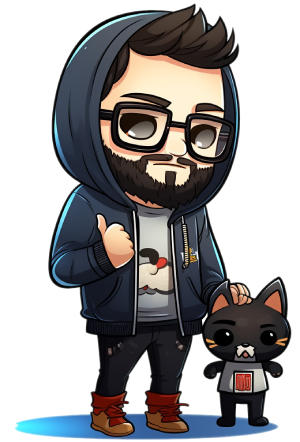
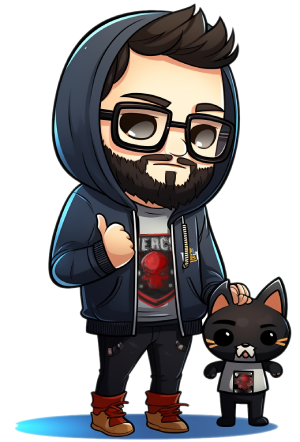
Added more machine specs, added merc tshirt.

Changed region(s): [[0.45, 0.5294, 0.6, 0.7059], [0.78, 0.8235, 0.84, 0.9118]]

diff --git a/README.md b/README.md
@@ -66,12 +66,13 @@
 
 <img src="assets/monk.png" align="right">
 
-**Gear:** &nbsp;
-<img alt="cpu badge" src="https://img.shields.io/badge/-AMD%20Ryzen%207%205800X%20@5.0GHz-ed1c24?style=flat-square&logo=AMD&logoColor=white">
-<img alt="gpu badge" src="https://img.shields.io/badge/-AMD%20Radeon%20RX%206800XT%2016GB-ed1c24?style=flat-square&logo=AMD&logoColor=white">
-<img alt="ram badge" src="https://img.shields.io/badge/-32GB%20DDR4%20@3200MHz-ed1c24?style=flat-square&logo=AMD&logoColor=white">
+**Desktop:** &nbsp; <img alt="desktop badge" src="https://img.shields.io/badge/-Ryzen%207%205800X%20@5.0GHz%20|%20Radeon%20RX%206800XT%2016GB%20|%2032GB%20DDR4%20@3200MHz-ed1c24?style=flat-square&logo=AMD&logoColor=white"> <img alt="prox badge" src="https://img.shields.io/badge/-OS: Windows-0078d4?style=flat-square&logo=Windows%2011&logoColor=white">
 
-**Tech I love:** &nbsp;
+**Laptop:** &nbsp; <img alt="laptop badge" src="https://img.shields.io/badge/-i7_12700H%20@2.3GHz%20|%20Iris%20Xe%20Integrated%20|%2032GB%20DDR4%20@3200MHz%20-0071c5?style=flat-square&logo=intel&logoColor=white"> <img alt="prox badge" src="https://img.shields.io/badge/-OS: Ubuntu-E95420?style=flat-square&logo=Ubuntu&logoColor=white">
+
+**Dev Server:** &nbsp; <img alt="server badge" src="https://img.shields.io/badge/-i7_8700K%20@3.8GHz%20|%20UHD%20Graphics%20630%20|%2032GB%20DDR4%20@3200MHz%20-0071c5?style=flat-square&logo=intel&logoColor=white"> <img alt="prox badge" src="https://img.shields.io/badge/-OS: Proxmox-e57000?style=flat-square&logo=Proxmox&logoColor=white">
+
+**Tech I Love:** &nbsp;
 <img alt="vscode badge" src="https://img.shields.io/badge/-VS%20Code-007acc?style=flat-square&logo=Visual%20Studio%20Code&logoColor=white">
 <img alt="unity badge" src="https://img.shields.io/badge/-Unity-000000?style=flat-square&logo=Unity&logoColor=white">
 <img alt="openai badge" src="https://img.shields.io/badge/-OpenAI-412991?style=flat-square&logo=OpenAi&logoColor=white">
@@ -79,6 +80,13 @@
 <img alt="astro badge" src="https://img.shields.io/badge/-Astro-ff5d01?style=flat-square&logo=Astro&logoColor=white">
 <img alt="next badge" src="https://img.shields.io/badge/-Next.js-000000?style=flat-square&logo=Next.js&logoColor=white">
 <img alt="ha badge" src="https://img.shields.io/badge/-Home%20Assistant-41bdf5?style=flat-square&logo=Home%20Assistant&logoColor=white">
+
+**Tech I Want to Use:** &nbsp;
+<img alt="bun badge" src="https://img.shields.io/badge/-Bun-000000?style=flat-square&logo=Bun&logoColor=white">
+<img alt="trpc badge" src="https://img.shields.io/badge/-tRPC-2596be?style=flat-square&logo=tRPC&logoColor=white">
+<img alt="planetscale badge" src="https://img.shields.io/badge/-PlanetScale-000000?style=flat-square&logo=PlanetScale&logoColor=white">
+<img alt="storybook badge" src="https://img.shields.io/badge/-Storybook-ff4785?style=flat-square&logo=Storybook&logoColor=white">
+<img alt="go badge" src="https://img.shields.io/badge/-Go-00add8?style=flat-square&logo=Go&logoColor=white">
 
 ---
 
